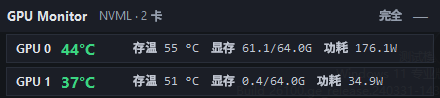
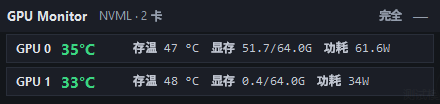
fix: resize compact window when the GPU count changes
The window height is derived from the GPU count but was applied only at
startup and on mode switch. When the app was spawned by the watchdog while
the unlock flow had the driver only half up (NVML ngpu=0/1), the height got
frozen at one row: the cards rebuilt correctly after both GPUs returned
(status said "NVML . 2 cards") but the second row sat outside the visible
area and was never mapped, so the tool looked like it saw a single GPU.

- call apply_geometry() after rebuilding the cards on a count change
- track whether the user dragged the window and only resize then, so a
  manually placed window is not snapped back to the bottom right
- use the real row pitch (33px) instead of 30 when deriving the height
- add test-geometry.py: forces ngpu=1 and lets the normal tick path recover
- refresh docs/img/window-compact.png for the new 440x104 compact window

diff --git a/test-geometry.py b/test-geometry.py
@@ -1,0 +1,91 @@
+# -*- coding: utf-8 -*-
+"""Regression test: compact window height must track the GPU count.
+
+The unlock flow after a reboot tears the NVIDIA driver down and reinstalls it,
+so the app can come up with NVML reporting only 1 GPU; both cards return a bit
+later. The card rows are rebuilt on that count change, but the compact window
+height (it is derived from the count) used to be applied only at startup --
+the second row ended up outside the window, so the tool "showed one GPU"
+while its status line already said "NVML . 2 cards".
+
+Run:  python test-geometry.py        (real NVML / real Tk, ASCII output only)
+"""
+
+import os
+import sys
+import tempfile
+import tkinter as tk
+import types
+
+APP = os.path.join(os.path.dirname(os.path.abspath(__file__)),
+                   "gpu-monitor-tray.py")
+# Load the shipped file, but redirect its diagnostic log to a temp file: a
+# plain import would append bogus "reinit/start" lines to the real monitor.log
+# and look like a phantom restart.
+_src = open(APP, encoding="utf-8").read()
+_src = _src.replace('LOG_PATH = os.path.join(APP_DIR, "monitor.log")',
+                    'LOG_PATH = os.environ["GPUMON_TEST_LOG"]')
+assert "GPUMON_TEST_LOG" in _src, "LOG_PATH line changed; update test-geometry.py"
+os.environ["GPUMON_TEST_LOG"] = os.path.join(tempfile.gettempdir(),
+                                             "gpu-monitor-test.log")
+m = types.ModuleType("gputray")
+m.__file__ = APP
+sys.modules["gputray"] = m
+exec(compile(_src, APP, "exec"), m.__dict__)
+
+
+class FakeIcon:
+    def __init__(self):
+        self.visible = False
+        self.icon = None
+
+
+def state(app, root):
+    root.update()
+    h = root.winfo_height()
+    body = app.body.winfo_reqheight()
+    mapped = sum(1 for c in app.cards if c["name"].master.winfo_ismapped())
+    fits = 32 + body <= h
+    print("  ui_ngpu=%d cards=%d mapped=%d win_h=%d body_req=%d %s" % (
+        app.ui_ngpu, len(app.cards), mapped, h, body,
+        "fits" if fits else "CLIPPED"))
+    return fits, mapped, h
+
+
+def main():
+    ok = True
+    m.NVML_STATE["ngpu"] = 1              # pretend: driver still half-up
+    root = tk.Tk()
+    app = m.MonitorApp(root, FakeIcon())
+    app.compact = True
+    print("[1] start with 1 GPU")
+    fits, mapped, h1 = state(app, root)
+    ok &= fits and mapped == 1
+
+    print("[2] both cards come back (1 -> 2)")
+    m.NVML_STATE["ngpu"] = 2
+    app._tick()
+    fits, mapped, h2 = state(app, root)
+    ok &= fits and len(app.cards) == 2 and mapped == 2 and h2 > h1
+
+    print("[3] stable count: no rebuild")
+    before = [id(c) for c in app.cards]
+    app._tick()
+    fits, mapped, h3 = state(app, root)
+    ok &= [id(c) for c in app.cards] == before and h3 == h2
+
+    print("[4] user-moved window keeps its position on resize")
+    root.geometry("+100+100")
+    app.moved = True
+    m.NVML_STATE["ngpu"] = 1
+    app._tick()
+    root.update()
+    ok &= (root.winfo_x(), root.winfo_y()) == (100, 100)
+
+    root.destroy()
+    print("RESULT:", "PASS" if ok else "FAIL")
+    return 0 if ok else 1
+
+
+if __name__ == "__main__":
+    sys.exit(main())

diff --git a/gpu-monitor-tray.py b/gpu-monitor-tray.py
@@ -331,6 +331,7 @@ class MonitorApp:
         self.stale_streak = 0
         self.ui_ngpu = NVML_STATE["ngpu"]
         self.compact = load_compact()
+        self.moved = False  # user dragged the window: keep their position
 
         root.title("GPU Monitor")
         root.configure(bg=BG)
@@ -374,12 +375,21 @@ class MonitorApp:
 
     def apply_geometry(self):
         if self.compact:
+            # height is derived from the GPU count, and it must be re-applied
+            # whenever that count changes (driver reinstall brings the cards
+            # back one at a time: a window sized while ngpu was still 0/1
+            # silently clips the rows that appear later).
             w = 440
-            h = 32 + 30 * max(self.ui_ngpu, 1) + 6
+            h = 32 + 33 * max(self.ui_ngpu, 1) + 6
         else:
             w, h = 524, 492
-        sw, sh = self.root.winfo_screenwidth(), self.root.winfo_screenheight()
-        self.root.geometry("%dx%d+%d+%d" % (w, h, sw - w - 16, sh - h - 86))
+        if self.moved:
+            self.root.geometry("%dx%d" % (w, h))  # resize only, keep position
+        else:
+            sw = self.root.winfo_screenwidth()
+            sh = self.root.winfo_screenheight()
+            self.root.geometry("%dx%d+%d+%d" % (w, h, sw - w - 16,
+                                                sh - h - 86))
 
     def toggle_compact(self):
         self.compact = not self.compact
@@ -461,6 +471,7 @@ class MonitorApp:
 
     def _move(self, e):
         if self._drag:
+            self.moved = True
             self.root.geometry("+%d+%d" % (e.x_root - self._drag[0],
                                            e.y_root - self._drag[1]))
 
@@ -506,6 +517,7 @@ class MonitorApp:
                                                NVML_STATE["ngpu"]))
             self.ui_ngpu = NVML_STATE["ngpu"]
             self.build_cards(max(self.ui_ngpu, 1))
+            self.apply_geometry()  # compact height tracks the GPU count
 
         with_data = 0
         healthy = 0

diff --git a/AGENTS.md b/AGENTS.md
@@ -62,6 +62,14 @@ HBM 存温通过常驻 `nvidia-smi -l 1` 流式进程解析获得。主要文件
 - 现象：CI 产物（约 19.5MB）比本地产物（约 18.7MB）大 —— GitHub runner 上没有 UPX，spec 里的 `upx=True` 会被静默跳过。
 - 坑：本机没装 `gh` CLI；`Get-Process GPU-Monitor` 会看到 **2 个**同路径进程，那是 PyInstaller onefile 的父/子进程，不是重复启动。
 
+### 改显卡数量后必须重新应用窗口尺寸（“只显示一个 GPU”的真凶）
+
+- 现象：重启后走解锁流程（驱动卸载重装），日志里 `ngpu 1 -> 2, rebuild UI` 明明执行了，状态栏也写「NVML · 2 卡」，但悬浮窗只有一行 GPU。
+- 原因：精简模式的窗高由卡数推导（`32 + 33*n + 6`），而 `apply_geometry()` 只在 `__init__` / 切模式时调用。若程序是在驱动只认出 1 张卡（甚至 0 张，`reinit: init rc=6`）时被看门狗拉起的，窗高就锁死在 1 行；之后 `build_cards(2)` 建出第二张卡的行，但它落在窗口可视区之外（Tk 里该行 `winfo_ismapped()==0`），看起来就是“只有一张卡”。
+- 修复：`_tick` 里卡数变化重建卡片后补一次 `apply_geometry()`；同时用 `self.moved` 记录用户是否拖动过窗口，拖过就只 resize 不改位置（否则用户摆好的位置会被弹回右下角）。
+- 排查手法：`python test-geometry.py`（强制 `NVML_STATE["ngpu"]=1` 再走真实 `_tick` 恢复），断言 `32 + body.winfo_reqheight() <= win_h` 且每行 `winfo_ismapped()`。只改 `NVML_STATE` 不改真实 NVML 即可复现。
+- 截取过渡态截图前要 `for aid in root.tk.call("after", "info"): root.after_cancel(aid)`，否则 `MonitorApp.__init__` 注册的 `after(300, tick)` 会提前把状态推进到 2 卡。
+
 ### 验证脚本不要向控制台打印非 ASCII
 
 - 现象：`python -c "print(...)"` 打印中文/emoji 时报 `UnicodeEncodeError: 'gbk' codec can't encode character`，整条 `cmd && cmd` 链因此中断。
